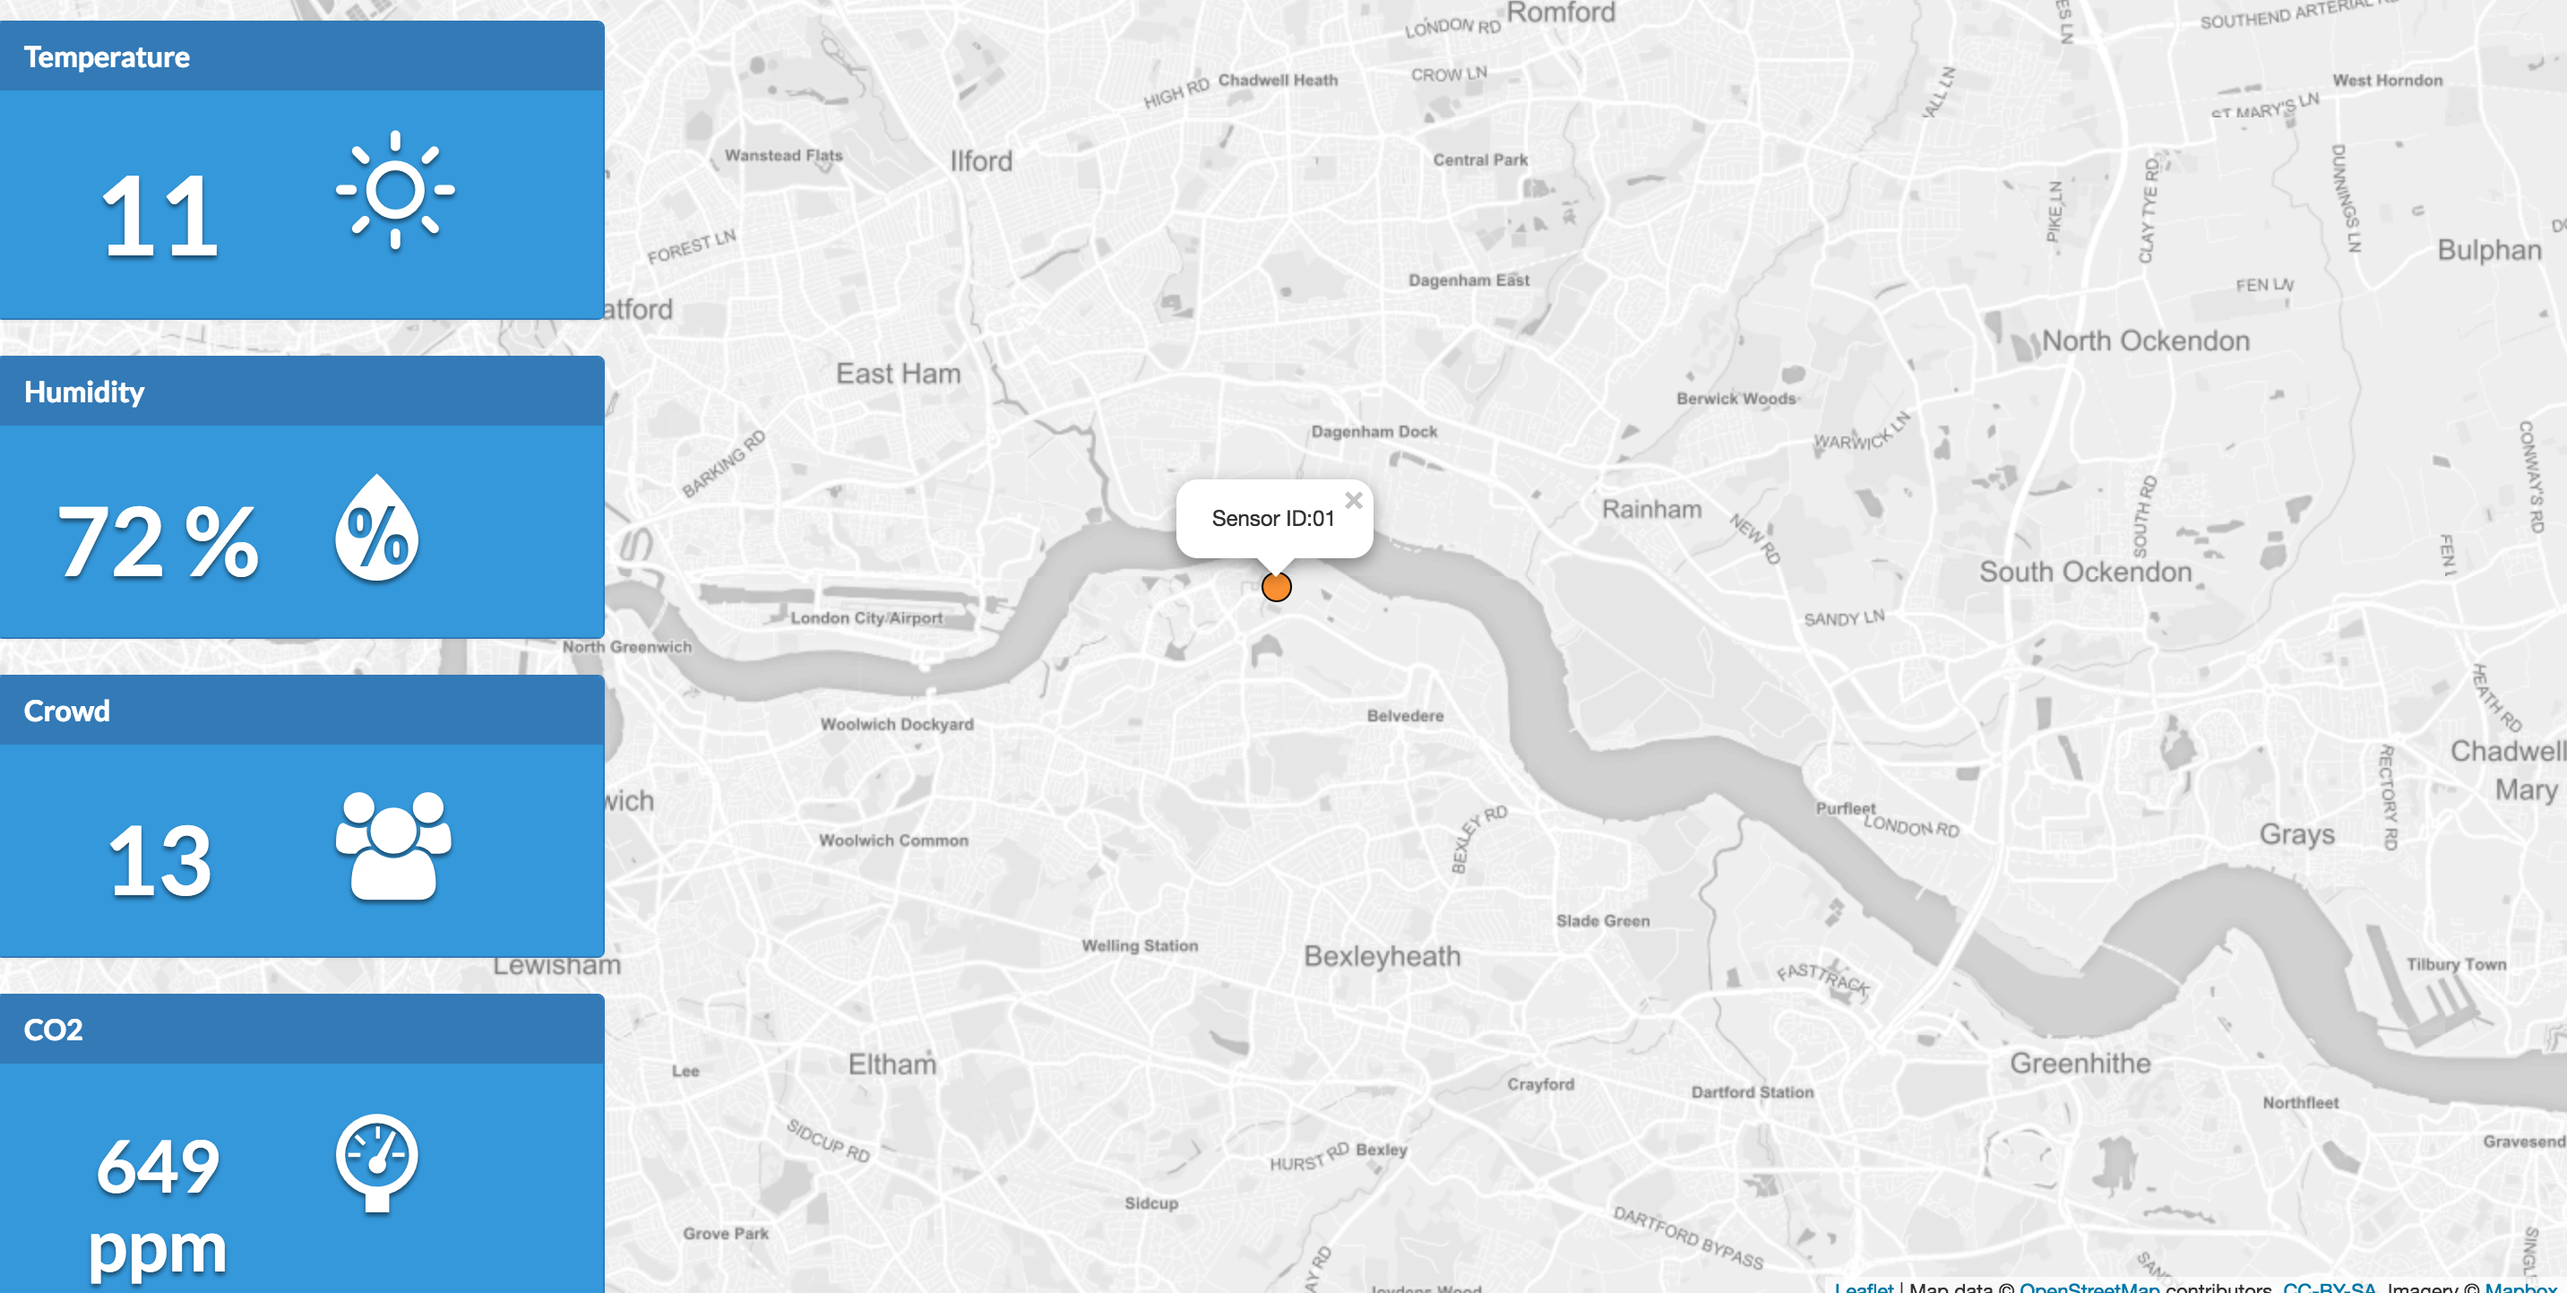
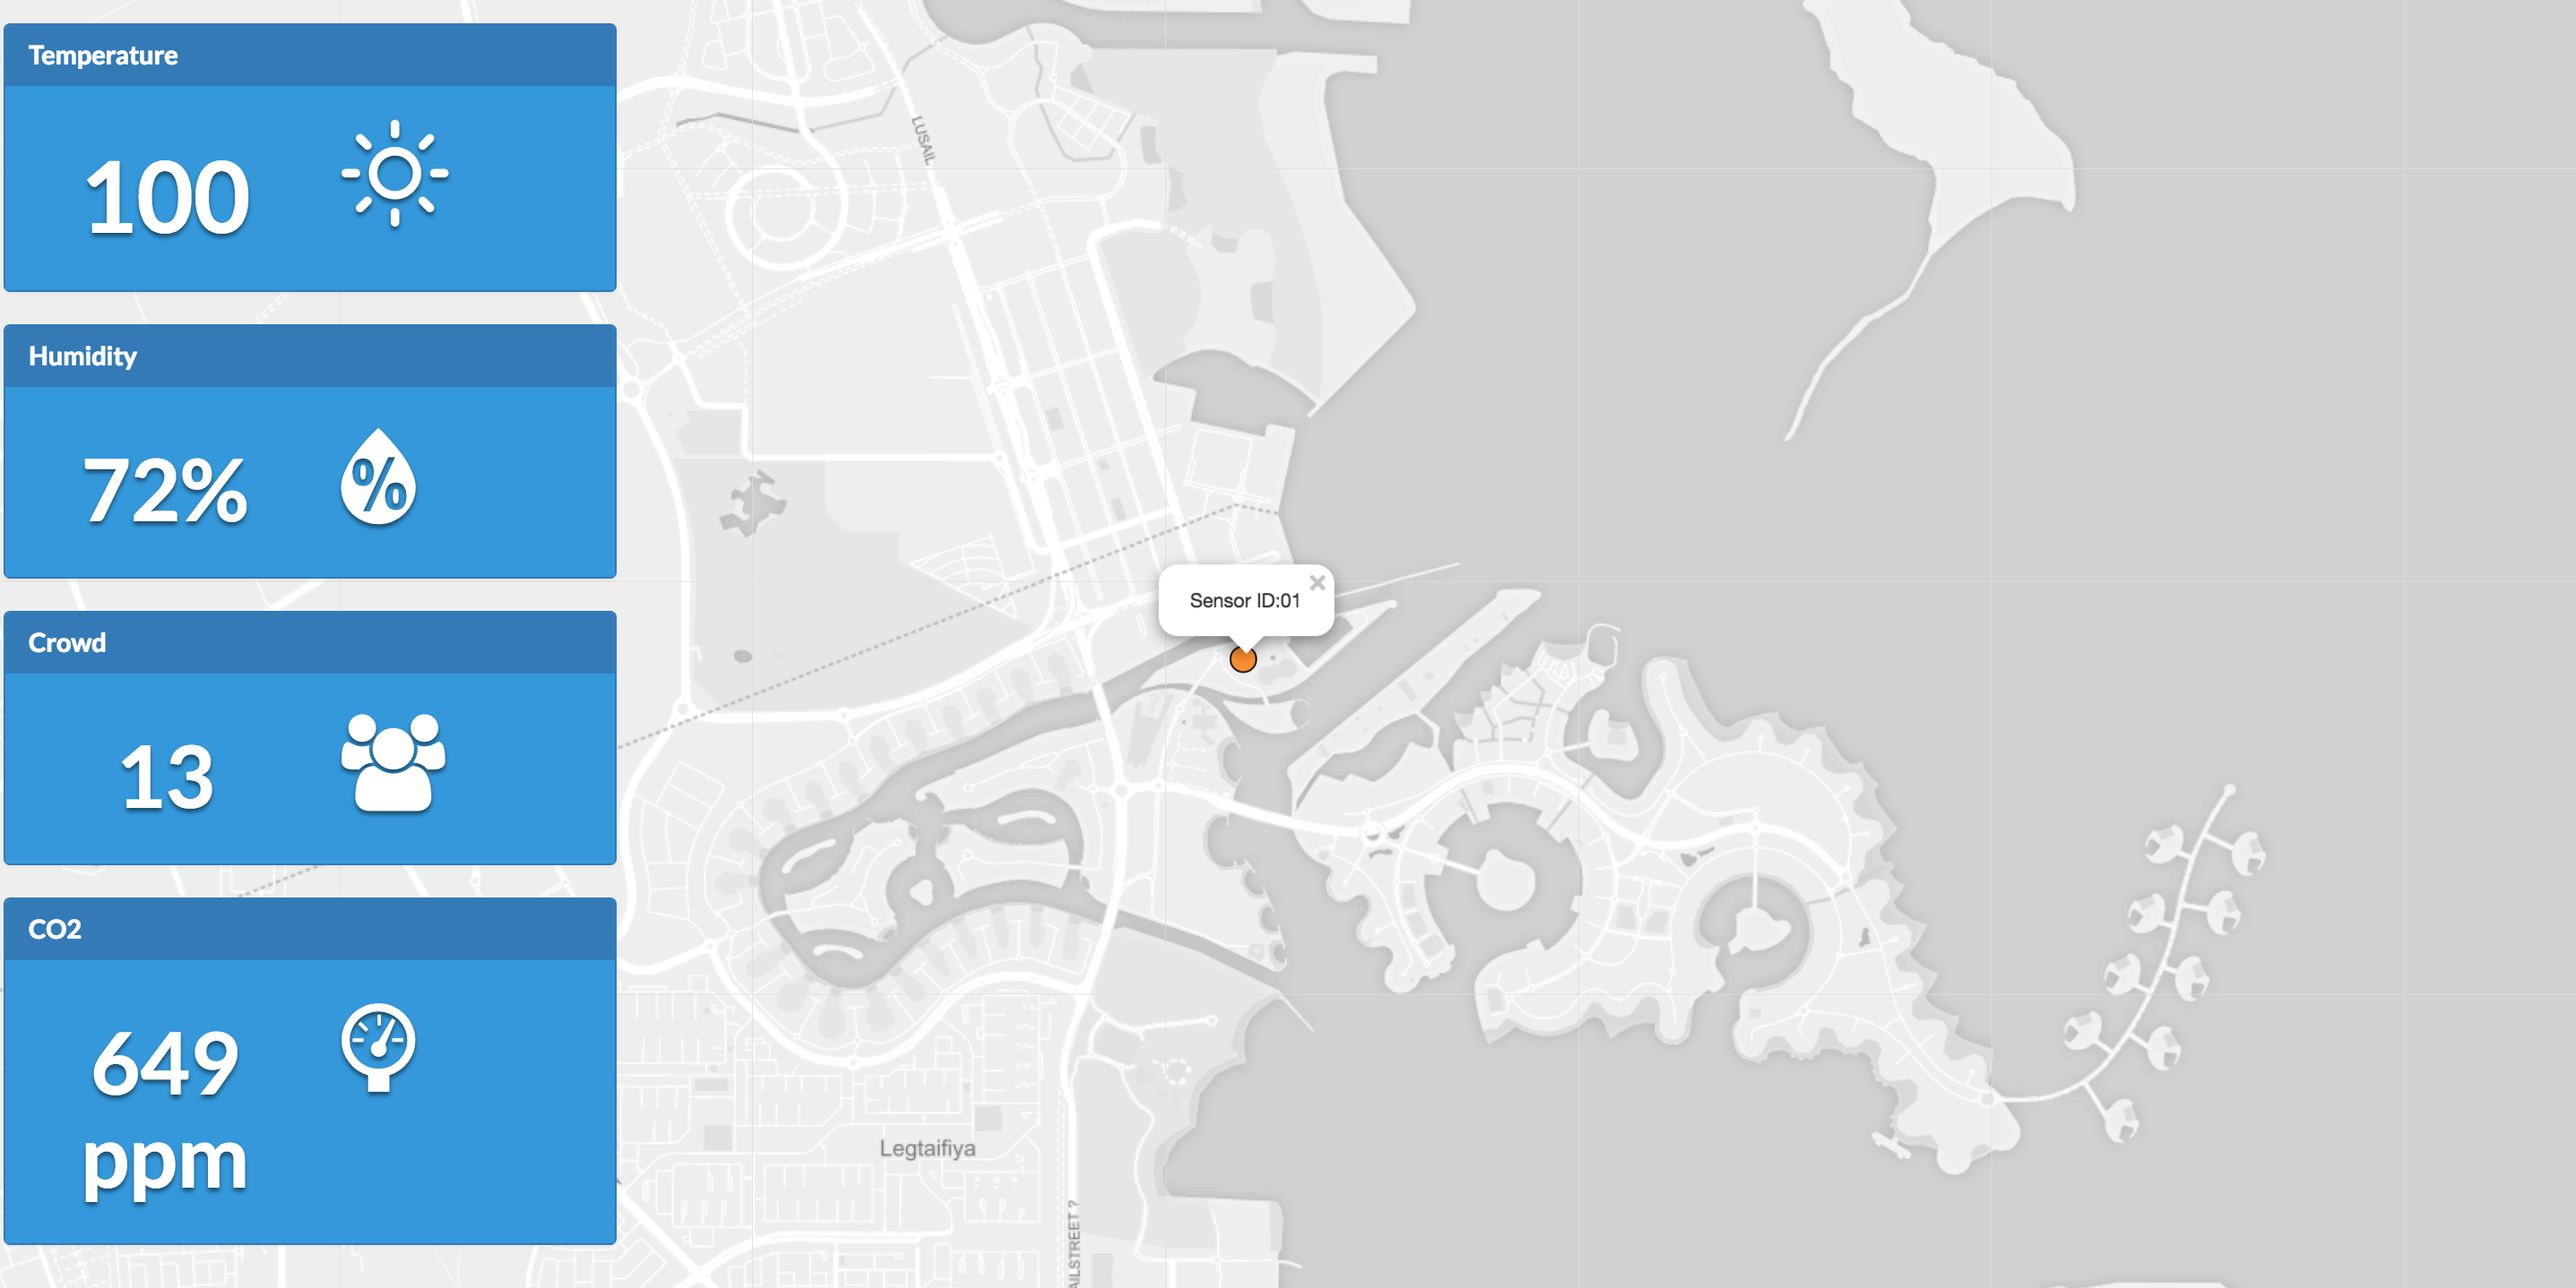
added a minimal dashboard

diff --git a/citySense_webapp/app/static/js/main.js b/citySense_webapp/app/static/js/main.js
@@ -4,68 +4,68 @@ $(document).ready(function() {
 	parameter constants
 	=======================================*/
 
-    var api_url = '/get_last_item_sensor/';
-    var map;
+	var api_url = '/get_last_item_sensor/';
+    var map; 
     var window_timer = 60 * 1 * 1000; //1 minute;
-    var default_sensor = "01";
+    var default_sensor = "01"; 
 
     /*=======================================
 	map
 	=======================================*/
 
-    function init_map() {
-        map = L.map('map', { zoomControl: false }).setView([51.5074, 0.1278], 12);
+    function init_map(){
+    	map = L.map('map', {zoomControl: false}).setView([25.28, 51.53], 12);
 
-        L.tileLayer('https://api.tiles.mapbox.com/v4/{id}/{z}/{x}/{y}.png?access_token=pk.eyJ1IjoibWFwYm94IiwiYSI6ImNpandmbXliNDBjZWd2M2x6bDk3c2ZtOTkifQ._QA7i5Mpkd_m30IGElHziw', {
-            maxZoom: 18,
-            attribution: 'Map data &copy; <a href="http://openstreetmap.org">OpenStreetMap</a> contributors, ' +
-                '<a href="http://creativecommons.org/licenses/by-sa/2.0/">CC-BY-SA</a>, ' +
-                'Imagery © <a href="http://mapbox.com">Mapbox</a>',
-            id: 'mapbox.light'
-        }).addTo(map);
+		L.tileLayer('https://api.tiles.mapbox.com/v4/{id}/{z}/{x}/{y}.png?access_token=pk.eyJ1IjoibWFwYm94IiwiYSI6ImNpandmbXliNDBjZWd2M2x6bDk3c2ZtOTkifQ._QA7i5Mpkd_m30IGElHziw', {
+		    maxZoom: 18,
+		    attribution: 'Map data &copy; <a href="http://openstreetmap.org">OpenStreetMap</a> contributors, ' +
+		        '<a href="http://creativecommons.org/licenses/by-sa/2.0/">CC-BY-SA</a>, ' +
+		        'Imagery © <a href="http://mapbox.com">Mapbox</a>',
+		    id: 'mapbox.light'
+		}).addTo(map);
 
-        /* I should be reading it from database. I have one sensor.*/
-        var sensors_geojson = {
-            "type": "Feature",
-            "properties": {
-                "sensor_id": "01"
-            },
-            "geometry": {
-                "type": "Point",
-                "coordinates": [0.1278, 51.5074]
-            }
-        };
+		/* I should be reading it from database. I have one sensor.*/
+		var sensors_geojson = {
+	    "type": "Feature",
+	    "properties": {
+	        "sensor_id": "01"
+	    },
+		    "geometry": {
+		        "type": "Point",
+		        "coordinates": [51.53, 25.38]
+		    }
+		};
 
-        var sensors_geojson_style = {
-            "radius": 8,
-            "fillColor": "#ff7800",
-            "color": "#000",
-            "weight": 1,
-            "opacity": 1,
-            "fillOpacity": 0.8
-        };
+		var sensors_geojson_style = {
+		    "radius": 8,
+		    "fillColor": "#ff7800",
+		    "color": "#000",
+		    "weight": 1,
+		    "opacity": 1,
+		    "fillOpacity": 0.8
+		};
 
-        L.geoJSON(sensors_geojson, {
+		L.geoJSON(sensors_geojson, {
 
-            onEachFeature: onEachFeature,
-            pointToLayer: function(feature, latlng) {
-                return L.circleMarker(latlng, sensors_geojson_style);
-            }
-        }).addTo(map);
-
-
-    }
+        	onEachFeature: onEachFeature, 
+		    pointToLayer: function (feature, latlng) {
+		        return L.circleMarker(latlng, sensors_geojson_style);
+		    }
+		}).addTo(map);
 
 
-    /*=======================================
+	}
+
+
+	/*=======================================
     helpful functions to get catch zone information
     =======================================*/
 
     function onEachFeature(feature, layer) {
 
-        if (feature.properties && feature.properties.sensor_id) {
-            layer.bindPopup("Sensor ID:" + feature.properties.sensor_id);
-        }
+	    if (feature.properties && feature.properties.sensor_id) {
+	        layer.bindPopup("Sensor ID:" + feature.properties.sensor_id);
+	    }
 
         layer.on({
             click: sensor_clicker
@@ -75,21 +75,21 @@ $(document).ready(function() {
 
     function sensor_clicker(e) {
         var sensor_id = e.target.feature.properties.sensor_id;
-        launch_citysense(api_url + sensor_id);
+        launch_citysense(api_url+sensor_id);
 
     }
 
-    /*=======================================
-    functions to update fields in the page
-    =======================================*/
+	/*=======================================
+	functions to update fields in the page
+	=======================================*/
     function update_temperature_value(value) {
         $('#temperature_value').text(value);
     }
-
+    
     function update_humidity_value(value) {
         $('#humidity_value').text(value);
     }
-
+    
     function update_co2_value(value) {
         $('#co2_value').text(value);
     }
@@ -110,72 +110,72 @@ $(document).ready(function() {
         $('#noise_value').text(value);
     }
 
-    /*=======================================
-    functions to update fields in the page
+	/*=======================================
+	functions to update fields in the page
 
-    the data that we get from server represented this way:
-    data = {
-    		temperature:,
-    		humidity:,
-    		co2:,
-    		crowd:,
-    		pressure:,
-    		light:,
-    		noise:, 
-    	}
-    =======================================*/
+	the data that we get from server represented this way:
+	data = {
+			temperature:,
+			humidity:,
+			co2:,
+			crowd:,
+			pressure:,
+			light:,
+			noise:, 
+		}
+	=======================================*/
 
-    function get_citysense_data(data) {
-        update_temperature_value(data.temperature);
-        update_humidity_value(data.humidity);
-        update_co2_value(data.co2);
-        update_crowd_value(data.crowd);
+	function get_citysense_data(data){
+		update_temperature_value(data.temperature);
+		update_humidity_value(data.humidity);
+		update_co2_value(data.co2);
+		update_crowd_value(data.crowd); 
     }
 
-    function update_citysense(api_url) {
+	function update_citysense(api_url){
 
-        setInterval(function() {
+		setInterval(function() {
 
-            $.getJSON(api_url, function(data, responseText, jqXHR) {
+	    $.getJSON(api_url, function(data, responseText, jqXHR) {
 
-                if (jqXHR.status != 204) {
-                    if (jqXHR.status != 204) {
+	            if (jqXHR.status != 204) {
+	                if (jqXHR.status != 204) {
 
-                        console.log(data);
-                        get_citysense_data(data)
+	                	console.log(data);
+	                	get_citysense_data(data)
 
+	   
+	                }
+	            }
+	    });
 
-                    }
-                }
-            });
-
-        }, window_timer);
+		}, window_timer);
     }
 
-    function launch_citysense(api_url) {
+    function launch_citysense(api_url){
 
-        $.getJSON(api_url, function(data, responseText, jqXHR) {
+    	 $.getJSON(api_url, function(data, responseText, jqXHR) {
 
-            if (jqXHR.status != 204) {
-                if (jqXHR.status != 204) {
+	            if (jqXHR.status != 204) {
+	                if (jqXHR.status != 204) {
 
-                    console.log(data);
-                    get_citysense_data(data)
+	                	console.log(data);
+	                	get_citysense_data(data)
 
-
-                }
-            }
-        });
+	   
+	                }
+	            }
+	    });
 
     }
 
-    /*=======================================
-    main
-    =======================================*/
+	/*=======================================
+	main
+	=======================================*/
 
 
     init_map();
-    launch_citysense(api_url + default_sensor);
-    update_citysense(api_url + default_sensor);
+    launch_citysense(api_url+default_sensor);
+    update_citysense(api_url+default_sensor);
 
 });

diff --git a/citySense_webapp/app/views.py b/citySense_webapp/app/views.py
@@ -13,4 +13,4 @@ def get_last_item_sensor(sensor_id):
 	cursor = environment_collection.find({"sensor_id": sensor_id}, {"_id": False}).sort("timestamp", pymongo.DESCENDING).limit(1)
 	cursor_records = list(cursor)[0]
 	
-	return jsonify(json_data)
+	return jsonify(cursor_records)
